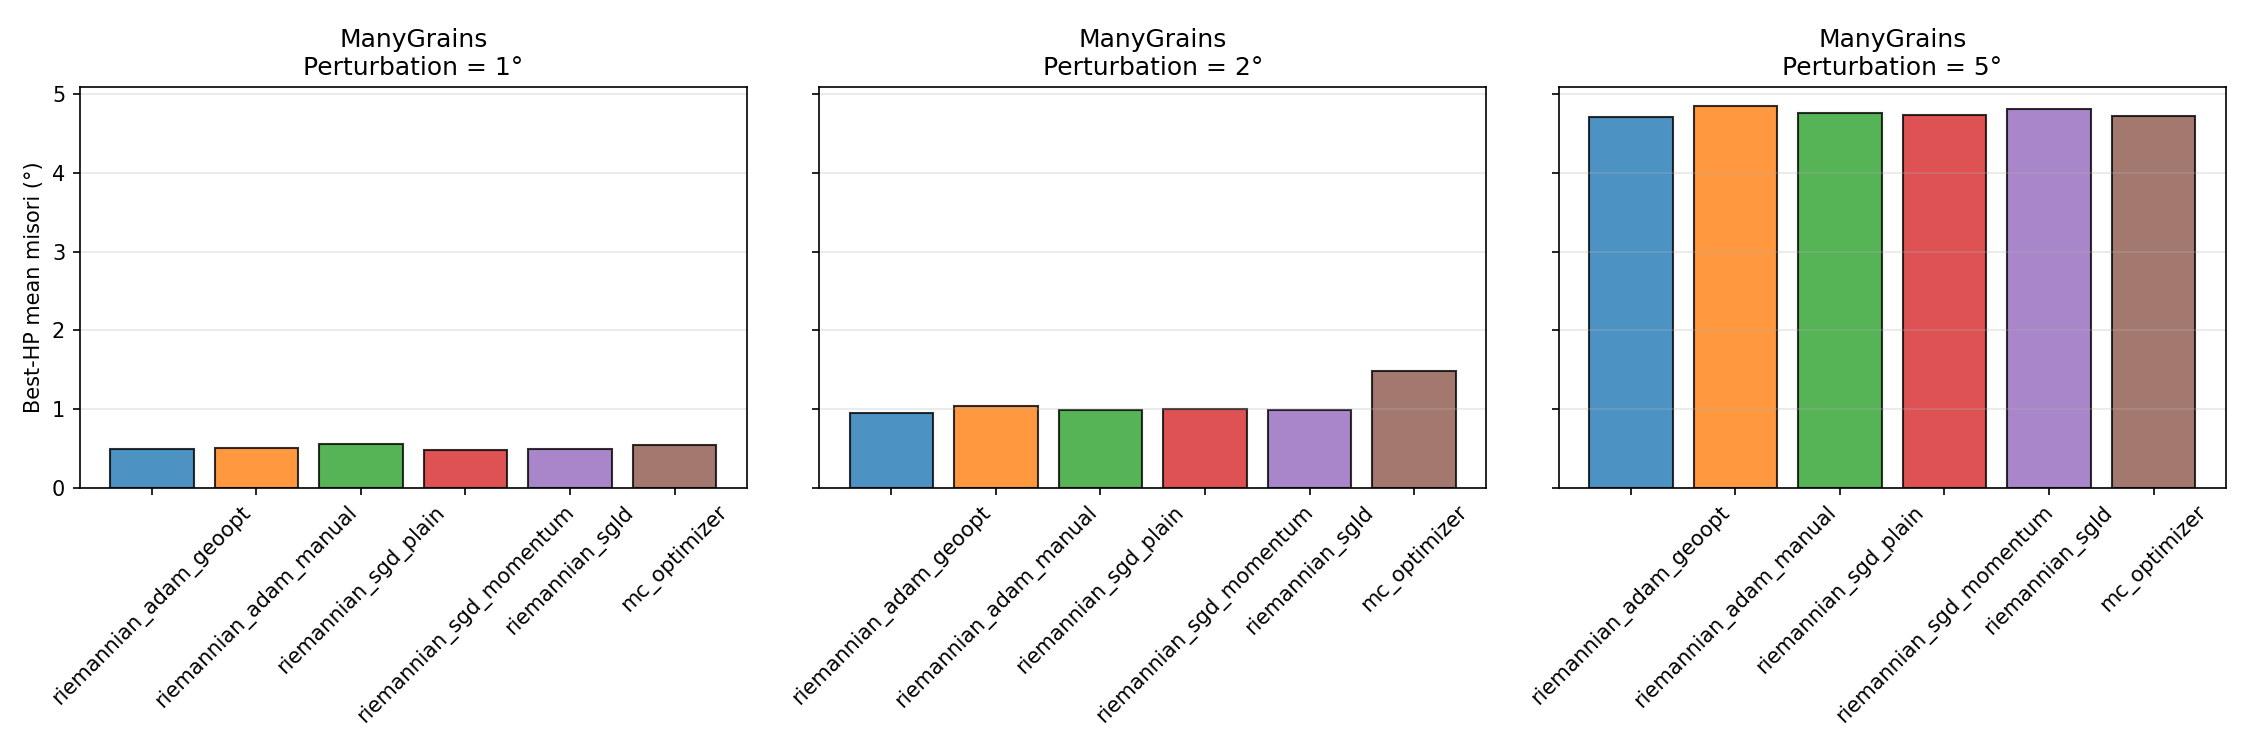
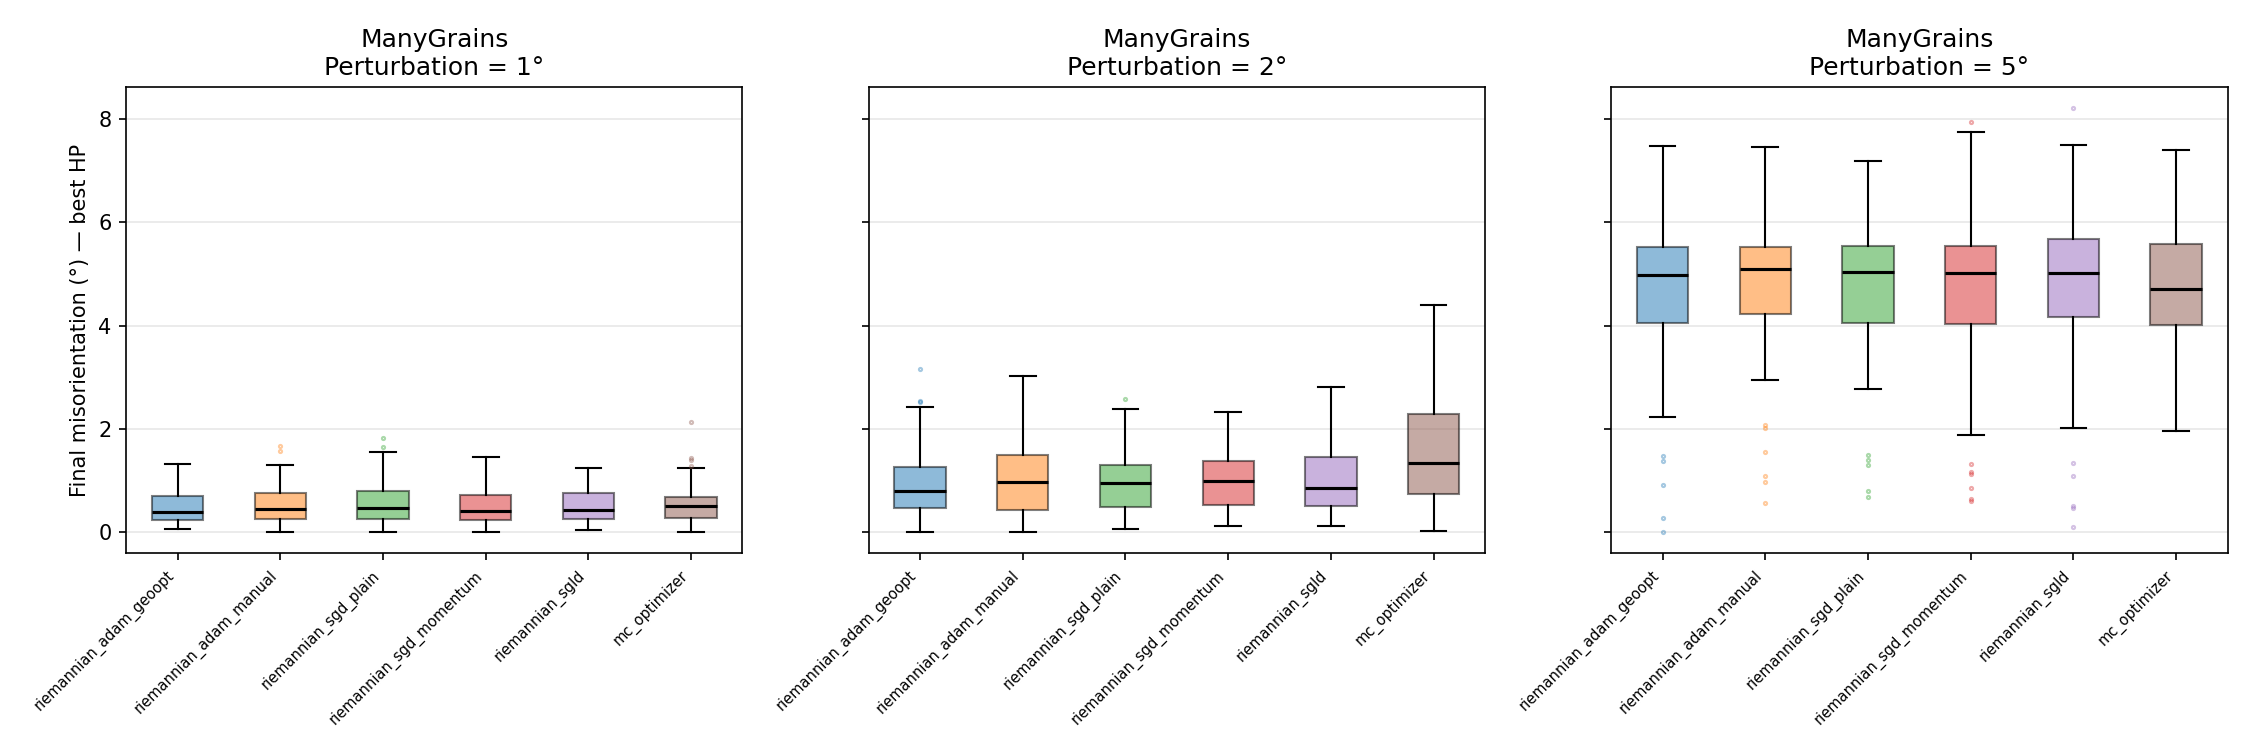
Change optimizer comparison from bar chart to box plots
Replace bar chart (best-HP mean per optimizer) with box plots showing
the full distribution of final misorientation at each optimizer's best
HP config (median, IQR, 1.5×IQR whiskers, outlier dots). Consistent
with the lr_sensitivity and nsteps_sensitivity plots. Update README
description accordingly.

diff --git a/icenine_py/benchmarks/bench_hp_sweep.py b/icenine_py/benchmarks/bench_hp_sweep.py
@@ -1089,7 +1089,7 @@ def plot_nsteps_sensitivity(csv_path: Path, out_path: Path, title_prefix: str) -
 
 
 def plot_optimizer_comparison(csv_path: Path, out_path: Path, title_prefix: str) -> None:
-    """Bar chart: best-HP misorientation per optimizer × perturbation."""
+    """Box plots of best-HP misorientation distribution per optimizer × perturbation."""
     try:
         import pandas as pd
     except ImportError:
@@ -1108,22 +1108,42 @@ def plot_optimizer_comparison(csv_path: Path, out_path: Path, title_prefix: str)
     for ai, pert in enumerate(perts):
         ax = axes[ai]
         sub = df[df["perturbation_deg"] == pert]
-        # For each optimizer, take the best-HP (minimum mean misorientation)
-        best_per_opt = []
+
+        data = []
+        labels = []
+        colors = []
         for opt in opts:
             sub_o = sub[sub["optimizer"] == opt]
             if sub_o.empty:
                 continue
-            grp = sub_o.groupby("hp_id")["final_misorientation_deg"].mean()
-            best_per_opt.append((opt, grp.min()))
+            # Select best HP for this optimizer: HP with lowest mean misorientation
+            best_hp = sub_o.groupby("hp_id")["final_misorientation_deg"].mean().idxmin()
+            vals = sub_o[sub_o["hp_id"] == best_hp]["final_misorientation_deg"].values
+            data.append(vals)
+            labels.append(opt)
+            colors.append(OPTIMIZER_COLORS.get(opt, "gray"))
 
-        labels = [o for o, _ in best_per_opt]
-        values = [v for _, v in best_per_opt]
-        colors = [OPTIMIZER_COLORS.get(o, "gray") for o in labels]
-        ax.bar(labels, values, color=colors, edgecolor="k", alpha=0.8)
+        positions = list(range(len(labels)))
+        bp = ax.boxplot(
+            data,
+            positions=positions,
+            widths=0.5,
+            patch_artist=True,
+            medianprops={"color": "k", "lw": 1.5},
+            flierprops={"marker": ".", "markersize": 3, "alpha": 0.4},
+            whiskerprops={"color": "k"},
+            capprops={"color": "k"},
+        )
+        for patch, color in zip(bp["boxes"], colors):
+            patch.set_facecolor(color)
+            patch.set_alpha(0.5)
+        for flier, color in zip(bp["fliers"], colors):
+            flier.set_markeredgecolor(color)
+
+        ax.set_xticks(positions)
+        ax.set_xticklabels(labels, rotation=45, ha="right", fontsize=7)
         ax.set_title(f"{title_prefix}\nPerturbation = {pert:.0f}°")
-        ax.set_ylabel("Best-HP mean misori (°)" if ai == 0 else "")
-        ax.tick_params(axis="x", rotation=45)
+        ax.set_ylabel("Final misorientation (°) — best HP" if ai == 0 else "")
         ax.grid(True, axis="y", alpha=0.3)
 
     fig.tight_layout()

diff --git a/icenine_py/README.md b/icenine_py/README.md
@@ -419,7 +419,7 @@ Grid of box plots — one subplot per gradient optimizer (MC excluded; it has no
 Grid of box plots — one subplot per optimizer (including MC). X-axis: number of optimization steps (n_steps for gradient methods; max_mc_steps for MC). Y-axis: distribution of final misorientation (°). Box statistics same as above (median, IQR, 1.5×IQR whiskers, outliers). Shows whether more steps improve results: at the optimal LR, gradient methods exhibit flat or worsening distributions beyond n=100, while MC shows the expected steady improvement.
 
 **`hp_sweep_optimizer_comparison_{example}.png`**
-Three-panel bar chart — one panel per perturbation size (1°, 2°, 5°). X-axis: optimizer family. Y-axis: best-HP mean misorientation (°) — the minimum mean misorientation achieved by each optimizer across all its HP configurations. Lower bars indicate ceiling performance that each optimizer can reach. Shows that Riemannian Adam dominates at 1°, SGD variants are competitive at 2°, and only MC achieves non-zero success at 5°.
+Three-panel box plot — one panel per perturbation size (1°, 2°, 5°). X-axis: optimizer family. Y-axis: distribution of final misorientation (°) for each optimizer's best HP configuration (the HP with lowest mean misorientation for that optimizer). Box statistics same as above (median, IQR = Q75−Q25, 1.5×IQR whiskers, outlier dots). Shows the full distribution of outcomes at each optimizer's ceiling performance — distinguishing whether low mean is driven by a tight, reliably converging distribution or by a bimodal mix of successes and failures.
 
 **`hp_sweep_trajectory_{example}.png`**
 Step-size trajectory plot. X-axis: event index — the sequential count of recorded optimization events (one event per 10 gradient steps; one event per accepted MC move or restart). Y-axis: angular step size (°) — the geodesic distance on SO(3) between consecutive recorded states. Solid line = median angular step size across all runs for that optimizer at each event index; shaded band = interquartile range (IQR = Q25 to Q75, i.e. the middle 50% of the run distribution). Gradient methods show smooth monotonic decay as the optimizer converges; MC shows irregular bursts — large random steps on accepted improvements followed by smaller steps as the local optimum is refined.
